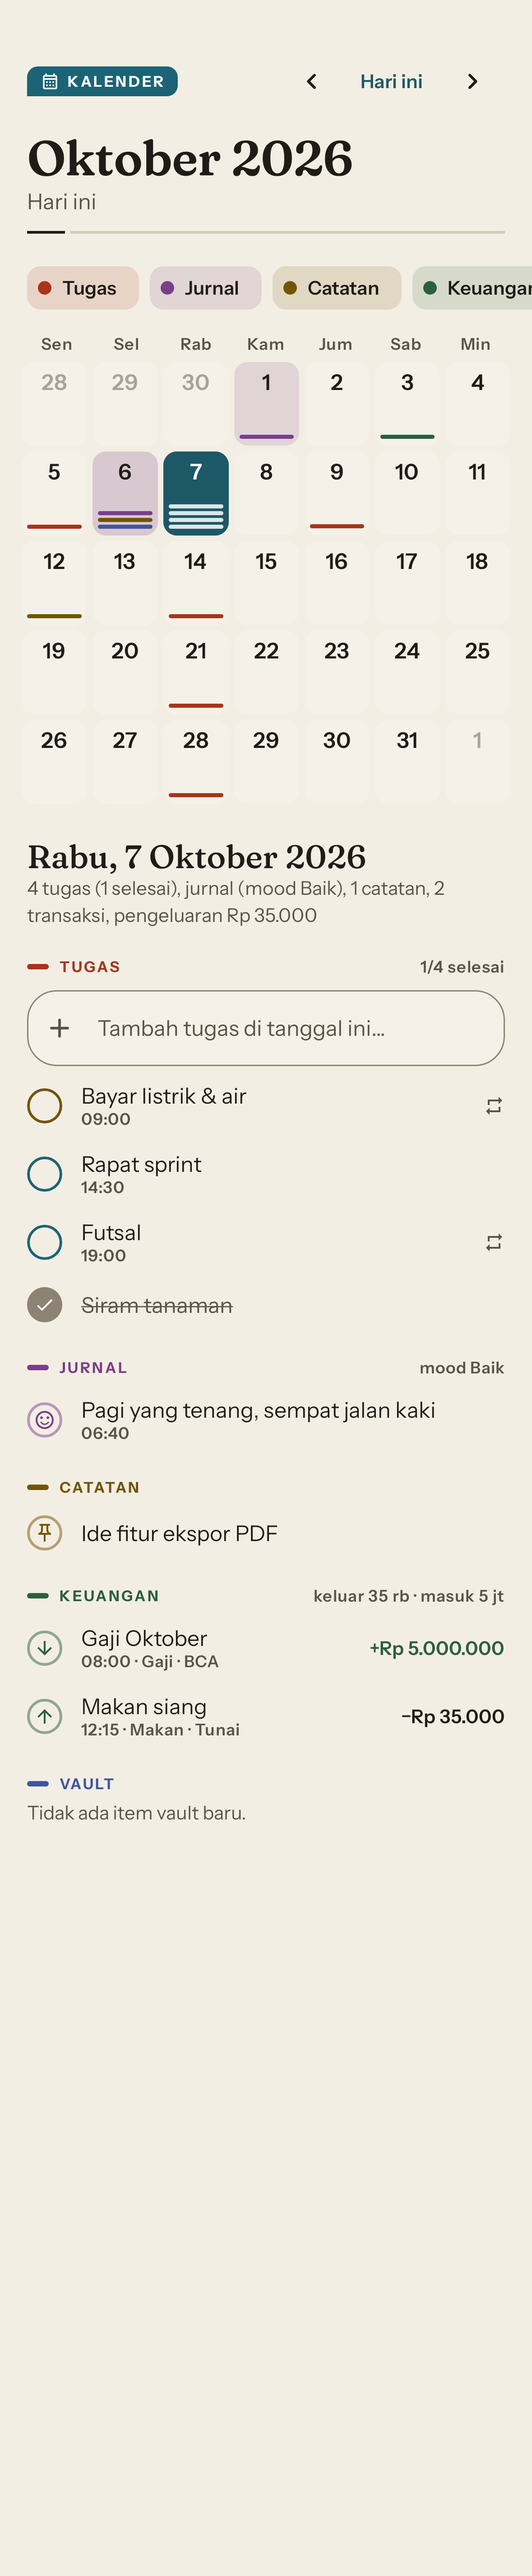
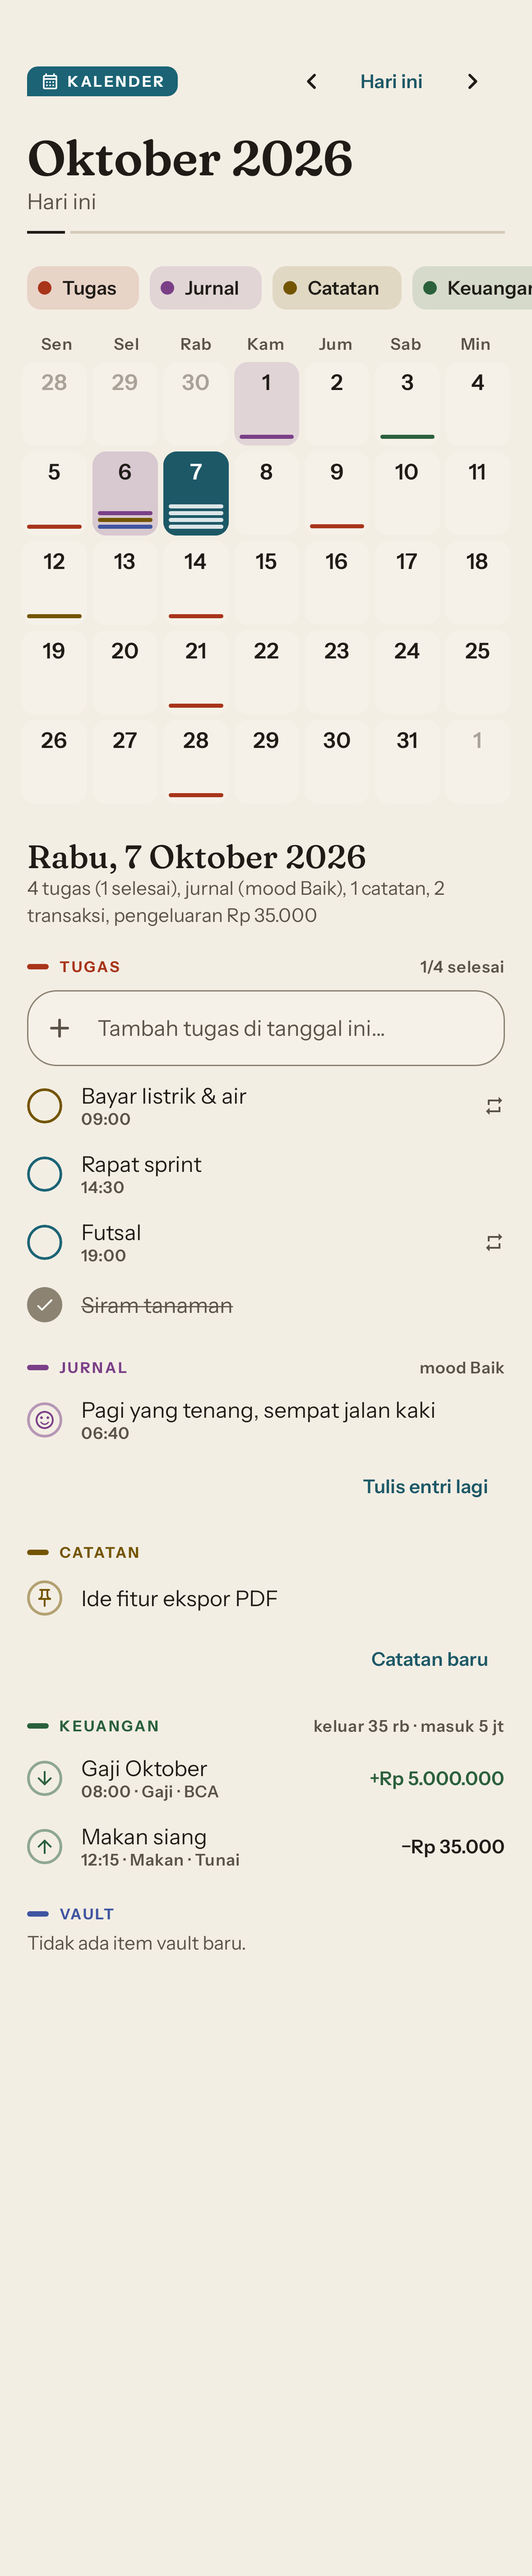
test(app): tangkapan layar Jurnal dan Catatan, serta dokumentasi Tahap 4

Changed region(s): [[0.0305, 0.5621, 0.4275, 0.7495], [0.7023, 0.6246, 0.9466, 0.7182], [0.458, 0.5933, 0.5191, 0.6246]]

diff --git a/app/src/test/kotlin/com/rosyidputrar/taskify/JournalNotesScreenshotTest.kt b/app/src/test/kotlin/com/rosyidputrar/taskify/JournalNotesScreenshotTest.kt
@@ -1,0 +1,218 @@
+package com.rosyidputrar.taskify
+
+import androidx.compose.foundation.layout.PaddingValues
+import androidx.compose.material3.MaterialTheme
+import androidx.compose.material3.Surface
+import androidx.compose.runtime.Composable
+import androidx.compose.ui.test.junit4.createComposeRule
+import androidx.compose.ui.test.onRoot
+import androidx.compose.ui.text.TextRange
+import androidx.compose.ui.text.input.TextFieldValue
+import androidx.compose.ui.unit.dp
+import androidx.test.ext.junit.runners.AndroidJUnit4
+import com.github.takahirom.roborazzi.captureRoboImage
+import com.rosyidputrar.taskify.core.designsystem.theme.TaskifyTheme
+import com.rosyidputrar.taskify.core.domain.editor.SaveState
+import com.rosyidputrar.taskify.core.domain.journal.JournalEntry
+import com.rosyidputrar.taskify.core.domain.journal.MoodPoint
+import com.rosyidputrar.taskify.core.domain.journal.moodStats
+import com.rosyidputrar.taskify.core.domain.notes.Note
+import com.rosyidputrar.taskify.core.domain.notes.groupLabel
+import com.rosyidputrar.taskify.core.domain.notes.groupNotes
+import com.rosyidputrar.taskify.core.domain.time.Dates
+import com.rosyidputrar.taskify.core.store.notes.NoteCounts
+import com.rosyidputrar.taskify.core.store.tasks.TagRef
+import com.rosyidputrar.taskify.feature.journal.JournalActions
+import com.rosyidputrar.taskify.feature.journal.JournalContent
+import com.rosyidputrar.taskify.feature.journal.JournalDraftUi
+import com.rosyidputrar.taskify.feature.journal.JournalEditorActions
+import com.rosyidputrar.taskify.feature.journal.JournalEditorContent
+import com.rosyidputrar.taskify.feature.journal.JournalInsight
+import com.rosyidputrar.taskify.feature.journal.JournalTab
+import com.rosyidputrar.taskify.feature.journal.JournalUiState
+import com.rosyidputrar.taskify.feature.journal.groupByMonth
+import com.rosyidputrar.taskify.feature.notes.NoteDraftUi
+import com.rosyidputrar.taskify.feature.notes.NoteEditorActions
+import com.rosyidputrar.taskify.feature.notes.NoteEditorContent
+import com.rosyidputrar.taskify.feature.notes.NoteGroup
+import com.rosyidputrar.taskify.feature.notes.NotesActions
+import com.rosyidputrar.taskify.feature.notes.NotesContent
+import com.rosyidputrar.taskify.feature.notes.NotesUiState
+import org.junit.Rule
+import org.junit.Test
+import org.junit.runner.RunWith
+import org.robolectric.annotation.Config
+import org.robolectric.annotation.GraphicsMode
+import com.rosyidputrar.taskify.SampleData.TODAY
+
+/** Data contoh Jurnal & Catatan (tanggal tetap agar gambar stabil). */
+object SampleJournal {
+    private fun entry(id: String, date: String, title: String?, content: String, mood: Int?, pinned: Boolean = false) =
+        JournalEntry(id, date, title, content, mood, pinned, "${date}T00:00:00.000Z", "")
+
+    val entries = listOf(
+        entry("j0", "2026-09-28", "Refleksi minggu 21 Sep – 27 Sep 2026", "### Yang berjalan baik\n- Rilis fitur kalender\n### Fokus minggu depan\n- [ ] Jurnal & catatan", 4, pinned = true),
+        entry("j1", TODAY, "Pagi yang tenang", "Sempat jalan kaki **30 menit** sebelum kerja. Kopi di teras, lalu menulis rencana hari ini.", 4),
+        entry("j2", TODAY, null, "Rapat sprint lebih panjang dari rencana, tapi keputusan soal sinkronisasi akhirnya jelas.", 3),
+        entry("j3", "2026-10-06", "Hari yang ringan", "Semua tugas beres sebelum jam 5. Malamnya nonton film bareng.", 5),
+        entry("j4", "2026-10-04", "Capek", "Kurang tidur. Besok harus lebih awal.", 2),
+        entry("j5", "2026-09-30", null, "Akhir bulan: tagihan sudah dibayar semua, sisa anggaran makan masih aman.", 4),
+    )
+
+    fun series(days: Int): List<MoodPoint> {
+        val moods = listOf(3.0, null, 4.0, 4.0, 2.0, null, 3.0, 5.0, 4.0, null, 3.0, 3.0, 4.0, 2.0, 1.0, 3.0, null, 4.0, 5.0, 4.0, 4.0, null, 3.0, 4.0, 2.0, null, 4.0, 5.0, 3.5, 4.0)
+        return (0 until days).map { i ->
+            val day = Dates.addDays(TODAY, -(days - 1 - i).toLong())
+            val m = moods[i % moods.size]
+            MoodPoint(day, m, if (m == null) 0 else 1)
+        }
+    }
+
+    fun state(tab: JournalTab = JournalTab.Shelf): JournalUiState {
+        val s = series(30)
+        return JournalUiState(
+            today = TODAY,
+            tab = tab,
+            pinned = entries.filter { it.pinned },
+            groups = groupByMonth(entries.filterNot { it.pinned }),
+            total = entries.size,
+            streak = 4,
+            todayCount = 2,
+            insight = JournalInsight(30, s, moodStats(s), listOf(entry("old", "2025-10-07", "Hari pertama kerja", "Gugup tapi senang.", 4))),
+            loaded = true,
+        )
+    }
+
+    private fun note(id: String, date: String?, title: String?, content: String, pinned: Boolean = false) =
+        Note(id, date, title, content, pinned, "2026-10-01T00:00:00.000Z", "")
+
+    val notes = listOf(
+        note("n1", null, "Ide fitur", "- Ekspor jurnal ke PDF\n- Widget mood di layar utama\n- Pencarian lintas modul", pinned = true),
+        note("n2", TODAY, "Notulen rapat sprint", "- [x] Tetapkan cakupan Tahap 4\n- [x] Bagi tugas editor\n- [ ] Uji simpan otomatis offline\n- [ ] Tinjau desain kartu"),
+        note("n3", "2026-10-06", null, "Nomor servis motor: bengkel dekat pasar, buka jam 8."),
+        note("n4", "2026-10-02", "Resep sambal matah", "Bawang merah, serai, cabai rawit, daun jeruk, minyak kelapa panas, perasan jeruk limau. Aduk, jangan diulek."),
+        note("n5", null, "Kutipan", "> Yang penting bukan seberapa cepat, tapi seberapa konsisten."),
+        note("n6", null, null, "Daftar buku: Atomic Habits, Deep Work, Laskar Pelangi"),
+    )
+
+    fun notesState(): NotesUiState {
+        val g = groupNotes(notes, trash = false)
+        return NotesUiState(
+            today = TODAY,
+            pinned = g.pinned,
+            groups = g.groups.map { (k, v) -> NoteGroup(k, groupLabel(k), v) },
+            counts = NoteCounts(total = 6, dated = 3, pinned = 1),
+            loaded = true,
+        )
+    }
+
+    object Actions : JournalActions, NotesActions, JournalEditorActions {
+        override fun setTab(tab: JournalTab) = Unit
+        override fun setSearch(text: String) = Unit
+        override fun setMood(mood: Int?) = Unit
+        override fun toggleTrash() = Unit
+        override fun setRange(days: Int) = Unit
+        override fun restore(entry: JournalEntry) = Unit
+        override fun setScope(scope: com.rosyidputrar.taskify.core.domain.notes.NoteScope) = Unit
+        override fun togglePin(note: Note) = Unit
+        override fun restore(note: Note) = Unit
+        override fun back() = Unit
+        override fun retry() = Unit
+        override fun title(value: String) = Unit
+        override fun body(value: TextFieldValue) = Unit
+        override fun mood(value: Int?) = Unit
+        override fun date(value: String) = Unit
+        override fun togglePin() = Unit
+        override fun remove() = Unit
+        override fun restore() = Unit
+        override fun addTag(name: String) = Unit
+        override fun removeTag(tag: TagRef) = Unit
+    }
+
+    object NoteActions : NoteEditorActions {
+        override fun back() = Unit
+        override fun retry() = Unit
+        override fun title(value: String) = Unit
+        override fun body(value: TextFieldValue) = Unit
+        override fun date(value: String?) = Unit
+        override fun togglePin() = Unit
+        override fun remove() = Unit
+        override fun restore() = Unit
+        override fun addTag(name: String) = Unit
+        override fun removeTag(tag: TagRef) = Unit
+    }
+
+    const val BODY = "## Rencana hari ini\nSempat jalan kaki **30 menit** sebelum kerja, lalu _menulis_ rencana.\n\n- [x] Rapat sprint\n- [ ] Bayar listrik\n- [ ] Telepon ibu\n\n> Pelan-pelan saja, yang penting jalan.\n\nCatatan lengkap di [taskify](https://taskify.id)."
+}
+
+@RunWith(AndroidJUnit4::class)
+@GraphicsMode(GraphicsMode.Mode.NATIVE)
+@Config(qualifiers = "w393dp-h852dp-xxhdpi")
+class JournalNotesScreenshotTest {
+    @get:Rule val compose = createComposeRule()
+    private val padding = PaddingValues(top = 24.dp, bottom = 24.dp)
+
+    private fun shot(name: String, dark: Boolean, content: @Composable () -> Unit) {
+        compose.setContent {
+            TaskifyTheme(darkTheme = dark) {
+                Surface(color = MaterialTheme.colorScheme.background) { content() }
+            }
+        }
+        compose.waitForIdle()
+        compose.onRoot().captureRoboImage("screenshots/$name.png")
+    }
+
+    @Test fun journalShelfLight() = shot("journal_shelf_light", false) {
+        JournalContent(SampleJournal.state(), SampleJournal.Actions, padding, {}, {})
+    }
+
+    @Test fun journalShelfDark() = shot("journal_shelf_dark", true) {
+        JournalContent(SampleJournal.state(), SampleJournal.Actions, padding, {}, {})
+    }
+
+    @Config(qualifiers = "w393dp-h1400dp-xxhdpi")
+    @Test fun journalInsight() = shot("journal_insight_light", false) {
+        JournalContent(SampleJournal.state(JournalTab.Insight), SampleJournal.Actions, padding, {}, {})
+    }
+
+    @Test fun journalInsightDark() = shot("journal_insight_dark", true) {
+        JournalContent(SampleJournal.state(JournalTab.Insight), SampleJournal.Actions, padding, {}, {})
+    }
+
+    private val draft = JournalDraftUi(
+        loaded = true, id = "j1", date = TODAY, title = "Pagi yang tenang",
+        body = TextFieldValue(SampleJournal.BODY, TextRange(0)), mood = 4, prompt = "Apa yang paling kamu syukuri hari ini?",
+    )
+
+    @Test fun journalEditor() = shot("journal_editor_light", false) {
+        JournalEditorContent(draft, SaveState.Saved, listOf(TagRef("t1", "refleksi", "violet")), emptyList(), SampleJournal.Actions, today = TODAY)
+    }
+
+    @Test fun journalEditorPreviewDark() = shot("journal_editor_preview_dark", true) {
+        JournalEditorContent(draft, SaveState.Pending, emptyList(), emptyList(), SampleJournal.Actions, initialPreview = true, today = TODAY)
+    }
+
+    @Test fun journalEditorEmpty() = shot("journal_editor_new_light", false) {
+        JournalEditorContent(JournalDraftUi(loaded = true, date = TODAY, prompt = "Apa pelajaran dari hari ini?"), SaveState.Idle, emptyList(), emptyList(), SampleJournal.Actions, today = TODAY)
+    }
+
+    @Test fun notesLight() = shot("notes_light", false) {
+        NotesContent(SampleJournal.notesState(), SampleJournal.Actions, padding, {}, {})
+    }
+
+    @Test fun notesDark() = shot("notes_dark", true) {
+        NotesContent(SampleJournal.notesState(), SampleJournal.Actions, padding, {}, {})
+    }
+
+    @Test fun noteEditor() = shot("note_editor_light", false) {
+        NoteEditorContent(
+            NoteDraftUi(loaded = true, id = "n2", date = TODAY, title = "Notulen rapat sprint", body = TextFieldValue(SampleJournal.notes[1].content)),
+            SaveState.Saved, emptyList(), emptyList(), SampleJournal.NoteActions, today = TODAY,
+        )
+    }
+
+    @Config(qualifiers = "w1280dp-h800dp-xhdpi")
+    @Test fun notesTablet() = shot("notes_tablet_light", false) {
+        NotesContent(SampleJournal.notesState(), SampleJournal.Actions, padding, {}, {})
+    }
+}

diff --git a/app/src/test/kotlin/com/rosyidputrar/taskify/ShellScreenshotTest.kt b/app/src/test/kotlin/com/rosyidputrar/taskify/ShellScreenshotTest.kt
@@ -87,7 +87,7 @@ class ShellScreenshotTest {
         setApp(dark = true)
         compose.onNodeWithContentDescription("Ruang").performClick()
         compose.waitForIdle()
-        compose.onNodeWithText("Jurnal").performClick()
+        compose.onNodeWithText("Keuangan").performClick()
         compose.waitForIdle()
         capture("module_placeholder_dark")
     }

diff --git a/README.md b/README.md
@@ -38,16 +38,21 @@ rahasia), sehingga build berikutnya bisa dipasang menimpa yang lama tanpa uninst
 app/                 Gerbang (konfigurasi → masuk → MFA → database → PIN), shell navigasi,
                      Pengaturan (akun, keamanan, sinkronisasi), koordinator sesi
 core/common          Utilitas murni: rupiah, UUIDv7, tanggal WIB, timestamp ISO, batas teks, hash
-core/domain          Logika murni teruji JVM: aturan upload, rotasi brankas, gerbang MFA, PIN
-core/store           Skema PowerSync (identik webapp) + repository Tugas, Tag, Beranda, Kalender — diuji di JVM
+core/domain          Logika murni teruji JVM: aturan upload, rotasi brankas, gerbang MFA, PIN,
+                     RRULE, Markdown, simpan otomatis, insight mood
+core/store           Skema PowerSync (identik webapp) + repository Tugas, Tag, Beranda, Kalender,
+                     Jurnal, Catatan — diuji di JVM
                      terhadap PowerSync sungguhan (SQLite + ekstensi PowerSync)
 core/data            Database Android, Supabase client, connector upload
 core/auth            AuthRepository (login, MFA aal2, ingat 30 hari), kunci PIN (Keystore)
 core/designsystem    "Kertas & Tinta": palet, tipografi, kartu indeks, Dok
+core/ui              Editor Markdown kertas bergaris + pratinjau native, indikator simpan, tag & tanggal
 core/reminders       Pengingat tugas sebagai alarm lokal + notifikasi (Selesai / Tunda 10 mnt)
 feature/auth         Layar Masuk, verifikasi dua langkah (kode & daftar QR), kunci PIN
 feature/tasks        Tugas: quick add bahasa natural, subtask, prioritas, tag, daftar, RRULE, pengingat
 feature/calendar     Kalender: grid bulan + strip minggu, agenda gabungan semua modul, kejadian virtual
+feature/journal      Jurnal: rak entri, editor + penggeser mood, insight (grafik, sebaran, streak), templat
+feature/notes        Catatan: grid staggered, catatan bebas / ditempel ke tanggal, sematkan, Sampah
 build-logic/         Convention plugin Gradle
 ```
 

diff --git a/docs/PLAN.md b/docs/PLAN.md
@@ -274,7 +274,7 @@ Biometric · Glance (widget) · DataStore.
 | **1. Data & Auth** | supabase-kt login, MFA aal2 + ingat 30 hari, skema PowerSync lengkap, connector + upload policy + `upload_errors`, PIN lock, logout menghapus data lokal | Login & sinkron data dari webapp tampil |
 | **2. Tugas + Beranda** | Quick add parser, subtask, prioritas, tag picker, filter, RRULE bergulir, alarm pengingat, undo; layar Hari Ini | Kelola tugas offline, notifikasi |
 | **3. Kalender** | Query gabungan + kejadian virtual, grid bulan/strip minggu, agenda hari | Pusat aktivitas |
-| **4. Jurnal + Catatan** | Editor Markdown bersama, mood & insight, cari/filter, templat | |
+| **4. Jurnal + Catatan** | Editor Markdown bersama, mood & insight, cari/filter, templat | Menulis jurnal & catatan offline, muncul di Kalender |
 | **5. Keuangan** | 6 tab, multi dompet, kategori ikon, grafik, input rupiah, berulang, anggaran, hutang, CSV | |
 | **6. Lampiran + Vault Kode** | Presign R2, outbox, snippet, project ZIP + viewer + versi | |
 | **7. Sandi + Konfigurasi** | Kripto kompatibel webapp (uji vektor), brankas, generator, TOTP + riwayat, recovery, rotasi, device trust | Brankas dari laptop terbuka di HP |
